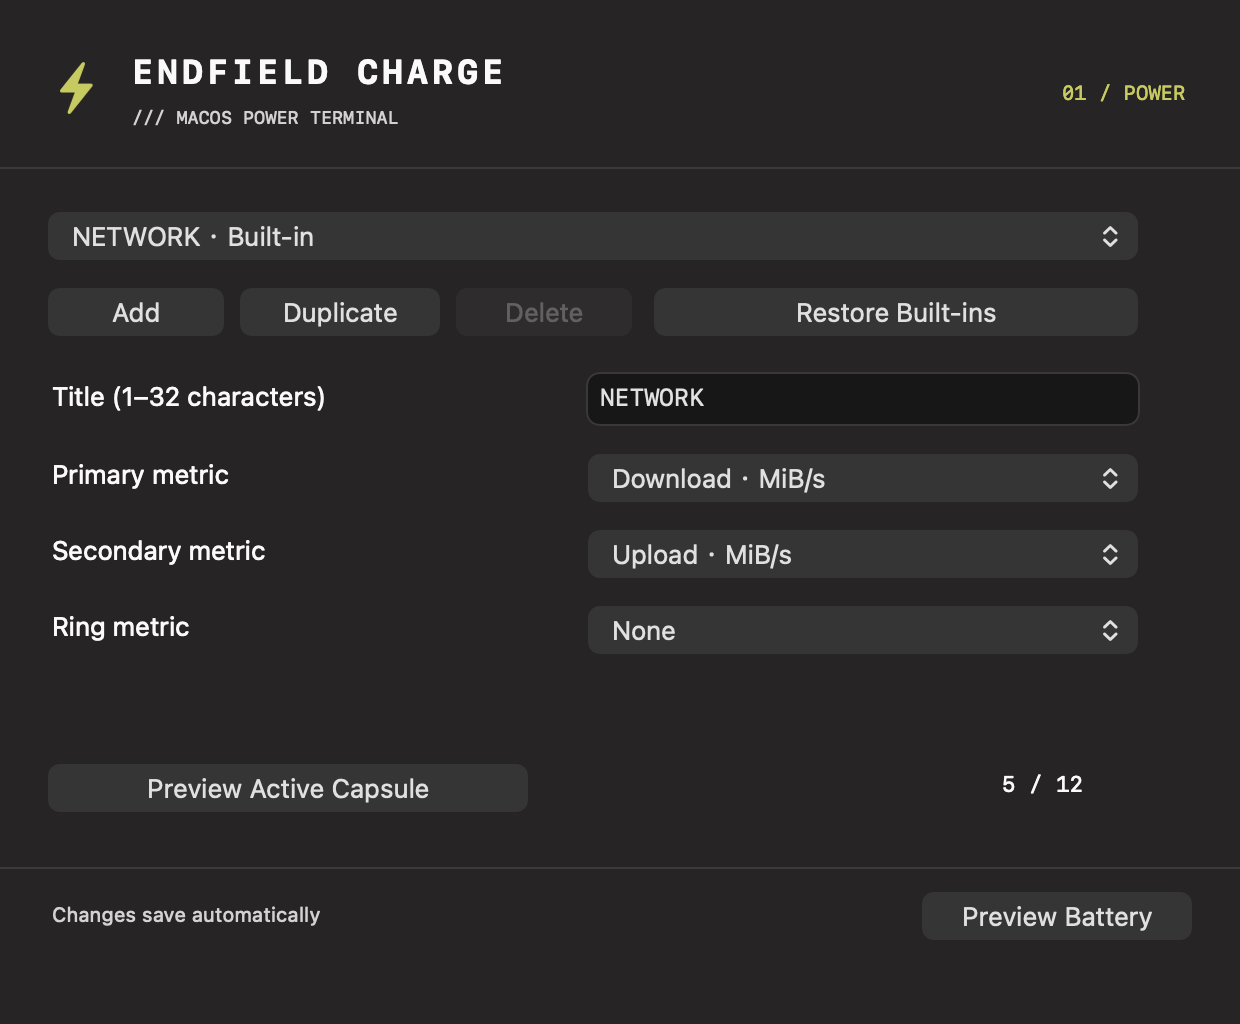
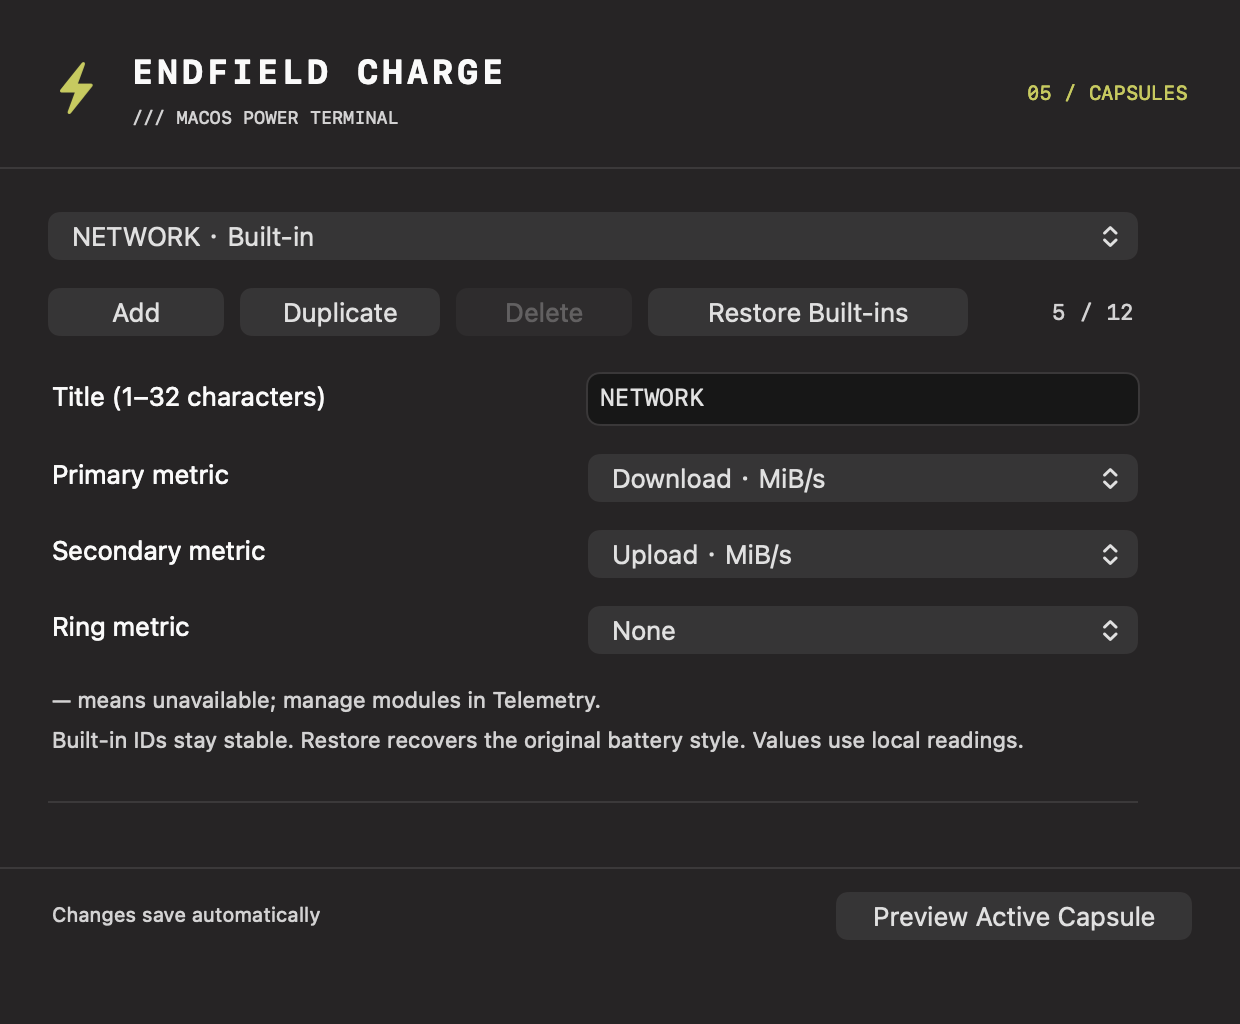
docs: refresh guides and screenshots for the interaction polish
Describe the footer preview, jump links, keyboard shortcuts, menu shortcut
hint and drag-and-drop import in both READMEs and sharing guides. Regenerate
the settings screenshots with the existing --render-settings and
ENDFIELD_EDITOR_SCREENSHOTS exports (same demo fixtures and framing).

diff --git a/README.md b/README.md
@@ -70,11 +70,13 @@ Builds use an ad-hoc signature and are **not Apple-notarized**. If macOS blocks 
 1. Click the menu bar icon and open **Settings → General** to choose your language and shortcut.
 2. Use **Preview Battery** or connect/disconnect your charger to see the original HUD.
 3. Open **Telemetry Terminal** for the five telemetry pages. Individual modules can be disabled in **Settings → Telemetry**.
-4. Open **Settings → Capsules**, select or edit a profile, then use **Preview Active Capsule**.
-5. Scroll down in **Capsules** to edit **Conditional colors**, the **Playback queue**, or open **Sharing & Import…**. Enable persistent display separately in **Display**.
+4. Open **Settings → Capsules**, select or edit a profile, then use **Preview Active Capsule** in the always-visible footer.
+5. Scroll down in **Capsules** to edit **Conditional colors**, the **Playback queue**, or open **Sharing & Import…**. Enable persistent display separately in **Display**; the **Persistent display →** and **Queue & interval →** links jump between the two.
 6. Open **Settings → Rules** to create a threshold or state-change alert, then explicitly enable it.
 
-The fresh-install shortcut is **Control + Option + H**. You can choose **Command + Shift + E** or another supported combination. Existing shortcuts are preserved. The shortcut starts with the selected capsule and, when rotation is enabled, plays one queue round; explicit battery preview and charger events continue to use the battery HUD.
+In Settings and the Telemetry Terminal, **Command + 1–7** (Telemetry: 1–5) switch sections, **Command + W** closes the window, and text fields support the standard copy, paste and undo shortcuts. Invalid input is explained in the footer, wherever the field is scrolled.
+
+The fresh-install shortcut is **Control + Option + H**, also shown next to **Preview Selected Capsule** in the menu bar menu. You can choose **Command + Shift + E** or another supported combination. Existing shortcuts are preserved. The shortcut starts with the selected capsule and, when rotation is enabled, plays one queue round; explicit battery preview and charger events continue to use the battery HUD.
 
 A newly enabled rule first establishes a quiet baseline. Numeric rules must recover and cross the threshold again if already true at startup; state rules wait for the next known transition. Background evaluation is every 30 seconds, so brief changes may be missed.
 

diff --git a/docs/configuration-sharing.md b/docs/configuration-sharing.md
@@ -6,7 +6,7 @@ All examples use synthetic demo configurations. These features use the existing 
 
 ## Share and undo
 
-Open **Settings → Capsules**, scroll down to **Sharing & Import…**, then **Export…** to save a local `.endfield.json`. To import, choose **Choose Import File…**, inspect the preview, select **Merge (keep local content)** or **Replace shared content**, then **Apply Import…** and confirm. Cancel leaves the configuration unchanged.
+Open **Settings → Capsules**, scroll down to **Sharing & Import…**, then **Export…** to save a local `.endfield.json`. To import, choose **Choose Import File…** or drop the file onto the window, inspect the preview, select **Merge (keep local content)** or **Replace shared content**, then **Apply Import…** and confirm. Cancel leaves the configuration unchanged.
 
 Shares contain capsule profiles, ordered color conditions, alert rules, the selected capsule, and playback queue/interval. They exclude language, shortcut, display placement, login startup, device readings and other local preferences. Sharing does not upload anything. The format has its own format identifier and schemaVersion; it does **not** import arbitrary zmd-charge-plus JSON.
 
@@ -21,7 +21,7 @@ The share file and private IPC frame limits are 128 KiB (131,072 bytes; IPC excl
 
 ## Conditional colors
 
-In **Settings → Capsules**, scroll to **Conditional colors**, add a condition, choose a numeric metric, strict Above/Below comparison, threshold in the displayed units, and Theme/Lime/Amber/Red. Use the condition selector and Up/Down to set priority; **Preview Colors** uses the actual HUD. Invalid or unfinished IME input must be corrected before structural changes.
+In **Settings → Capsules**, scroll to **Conditional colors**, add a condition, choose a numeric metric, strict Above/Below comparison, threshold in the displayed units, and Theme/Lime/Amber/Red. Use the condition selector and Up/Down to set priority; **Preview Active Capsule** in the footer uses the actual HUD. Invalid or unfinished IME input must be corrected before structural changes.
 
 The first matching known condition wins. Equality does not match; unknown readings are skipped. No match uses the original theme. Colors change the numeric/ring accent, not artwork or geometry, and do not create alerts. Real power/low-battery/thermal alerts keep their priority and severity colors. An unchanged battery profile uses the original rendering path.
 

diff --git a/README.zh-CN.md b/README.zh-CN.md
@@ -70,11 +70,13 @@ Codex 额度胶囊：剩余额度、重置倒计时和 OpenAI 徽标。图中为
 1. 点击菜单栏图标，进入**设置 → 通用**，选择语言与快捷键。
 2. 点击**预览本机电量**，或插拔充电器，查看原电量 HUD。
 3. 打开**遥测终端**查看五类数据；在**设置 → 遥测**中分别关闭不需要的模块。
-4. 进入**设置 → 胶囊**选择、编辑方案，然后点击**预览当前胶囊**。
-5. 在**胶囊**页向下滚动，设置**条件配色**、**播放队列**或打开**分享与导入…**；常驻在**显示**页单独开启。
+4. 进入**设置 → 胶囊**选择、编辑方案，然后点击底栏常驻的**预览当前胶囊**。
+5. 在**胶囊**页向下滚动，设置**条件配色**、**播放队列**或打开**分享与导入…**；常驻在**显示**页单独开启，两页之间可用**常驻显示 →**／**播放队列与间隔 →**直接跳转。
 6. 进入**设置 → 规则**新建阈值或状态变化提醒，再手动启用。
 
-全新安装的默认快捷键为 **Control + Option + H**；可改为 **Command + Shift + E** 等组合，升级保留原有快捷键。快捷键先预览当前方案，开启轮播后再播放一轮队列；明确的电量预览和插拔电源事件仍显示原电量 HUD。
+设置与遥测窗口支持 **Command + 1–7**（遥测 1–5）切换分区、**Command + W** 关闭窗口，输入框支持标准拷贝、粘贴与撤销快捷键。无效输入会在底栏说明，无论该字段滚动到何处。
+
+全新安装的默认快捷键为 **Control + Option + H**，菜单栏菜单的**预览当前胶囊**旁也会显示；可改为 **Command + Shift + E** 等组合，升级保留原有快捷键。快捷键先预览当前方案，开启轮播后再播放一轮队列；明确的电量预览和插拔电源事件仍显示原电量 HUD。
 
 新启用的规则先建立安静基线：数值条件启动时已成立，需要先恢复再跨越阈值；状态规则等待下一次已知状态变化。后台每 30 秒评估，可能无法观察到短时变化。
 

diff --git a/docs/configuration-sharing.zh-CN.md b/docs/configuration-sharing.zh-CN.md
@@ -6,7 +6,7 @@
 
 ## 分享与撤销
 
-进入**设置 → 胶囊**，向下滚动到**分享与导入…**，点击**导出…**保存本地 `.endfield.json`。点击**选择导入文件…**后先检查预览，选择**合并（保留本机内容）**或**替换分享内容**，再点击**应用导入…**并确认；取消不改变配置。
+进入**设置 → 胶囊**，向下滚动到**分享与导入…**，点击**导出…**保存本地 `.endfield.json`。点击**选择导入文件…**或将文件拖入窗口后，先检查预览，选择**合并（保留本机内容）**或**替换分享内容**，再点击**应用导入…**并确认；取消不改变配置。
 
 分享包含胶囊、有序配色条件、提醒规则、当前胶囊和轮播队列／间隔；不包含语言、快捷键、显示位置、登录启动、设备读数及其他本机偏好。文件不会上传。格式有自己的标识与 schemaVersion，**不支持任意 zmd-charge-plus JSON**。
 
@@ -21,7 +21,7 @@
 
 ## 条件配色
 
-在**设置 → 胶囊**滚动到**条件配色**，添加条件，选择数值指标、严格大于／小于、显示单位下的阈值与主题／黄绿／琥珀／红色色板。用条件选择器及上移／下移调整优先级，**预览配色**调用真实 HUD。无效或未完成的输入法草稿需先修正，才能改动结构。
+在**设置 → 胶囊**滚动到**条件配色**，添加条件，选择数值指标、严格大于／小于、显示单位下的阈值与主题／黄绿／琥珀／红色色板。用条件选择器及上移／下移调整优先级，底栏**预览当前胶囊**调用真实 HUD。无效或未完成的输入法草稿需先修正，才能改动结构。
 
 第一条已知读数命中的条件生效；等于阈值不命中，未知读数跳过，无命中使用原主题。只改数值与圆环强调色，不改图案或几何，也不自动创建提醒。电源／低电量／热提醒保持优先级及严重度颜色；未修改的电池方案沿用原绘制路径。
 
